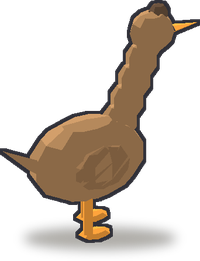
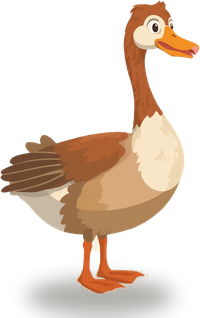
Поставить китайского гуся — гусятник закрыт
Бурый гусь, которого фильтр заворачивал трижды, прошёл с формулировкой
«goose with warm chestnut and cream feathers»: цвет после существительного,
слова brown нет. Наблюдение из ART-TODO подтвердилось.

Курятник и гусятник теперь целиком на присланных картинках: двенадцать
животных из девятнадцати.

Claude-Session: https://claude.ai/code/session_013ovumMuRfj2SmgMR5kzGwz

diff --git a/docs/ART-TODO.md b/docs/ART-TODO.md
@@ -29,7 +29,7 @@ python3 tools/import-art.py картинка.png <id>
 
 ## Список
 
-Всего животных 19, готовы 11, одна из них временная.
+Всего животных 19, готовы 12 — курятник и гусятник целиком; одна из кур временная.
 
 | Готово | Файл | Порода | Постройка | Уровень | Как выглядит |
 |:---:|---|---|---|:---:|---|
@@ -42,7 +42,7 @@ python3 tools/import-art.py картинка.png <id>
 |  | `breed-vietnam.png` | Вьетнамская вислобрюхая | Свинарник | 5 | Чёрная свинья, брюхо до земли |
 | ✅ | `breed-kuchin.png` | Кучинская юбилейная | Курятник | 6 | Рыже-бурая, золотая шея |
 | ✅ | `breed-holmgus.png` | Холмогорский гусь | Гусятник | 7 | Белый гусь, шишка на клюве |
-|  | `breed-kitay.png` | Китайский | Гусятник | 5 | Бурый, лебединая шея, шишка на лбу |
+| ✅ | `breed-kitay.png` | Китайский | Гусятник | 5 | Бурый, лебединая шея, шишка на лбу |
 | ✅ | `breed-kuban.png` | Кубанский | Гусятник | 9 | Серо-бурый, тёмная полоса по шее |
 | ✅ | `breed-tuluz.png` | Тулузский | Гусятник | 11 | Грузный серый, кошелёк под клювом |
 | ✅ | `breed-ital.png` | Итальянский белый | Гусятник | 12 | Белый, лёгкий, без шишки |
